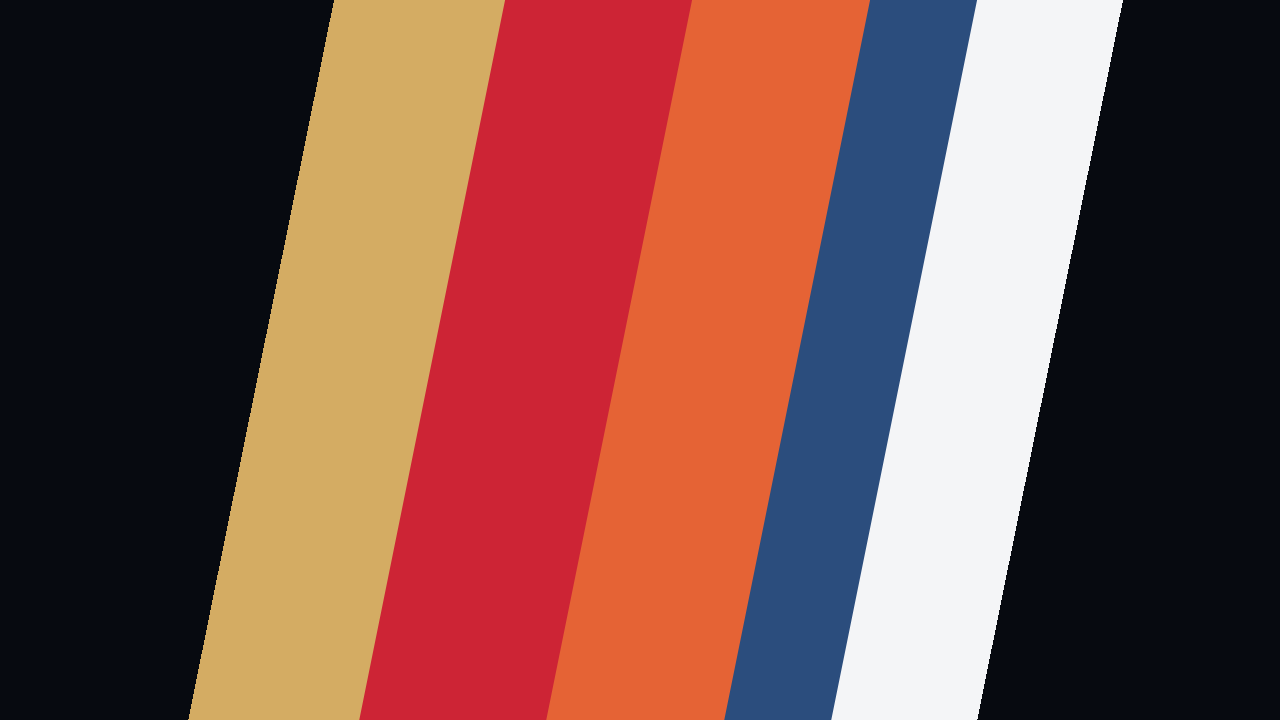
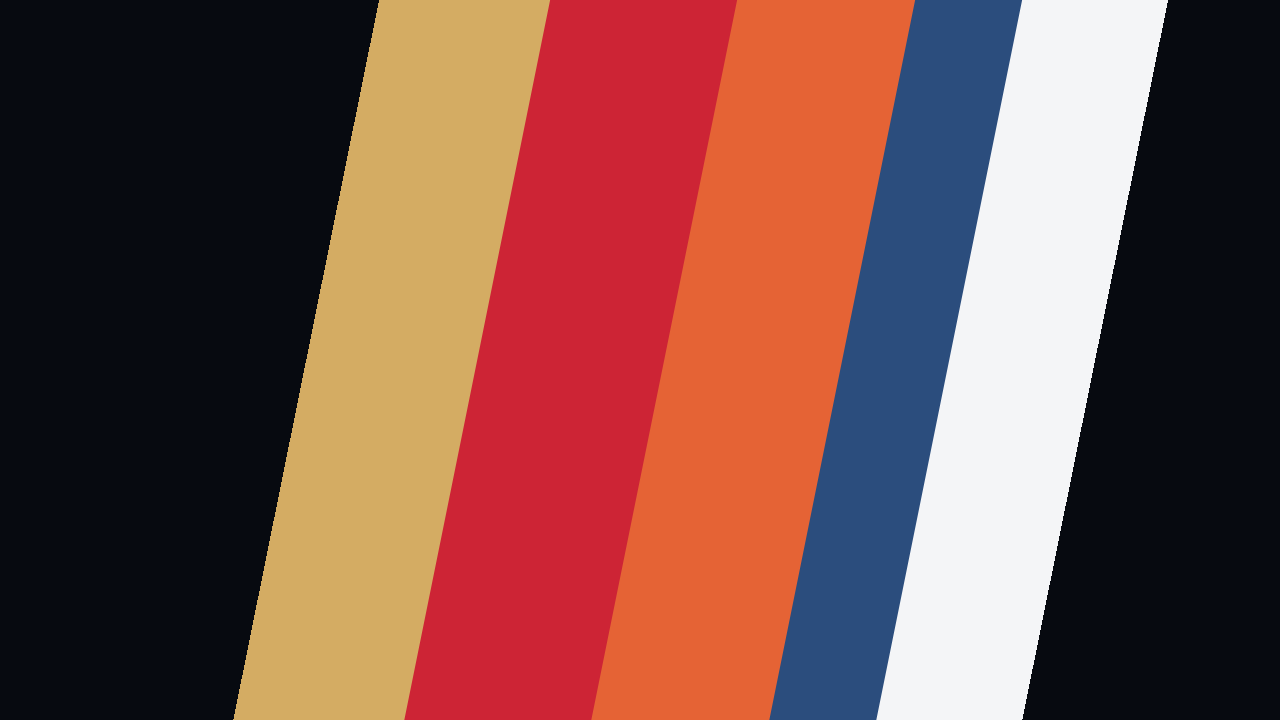
Fix boot swipe, lock design decisions, add session handoff
- boot: store the shear ANGLE rather than skewX(...); the CSS already wraps it,
  so the variable produced skewX(skewX(...)) -> invalid transform -> band static
- boot: retime to 1.7s and shorten the off-screen run-up (most of the old 1400ms
  was spent approaching from off-frame, so it read as a ~0.6s wipe)
- boot: add ?freeze=<ms>, which pauses the real keyframes; ?still= computes its
  own transform and cannot catch animation bugs
- docs: HANDOFF.md for clean session migration; DESIGN.md boot section updated
- repo: .gitignore, _tools/asar-one.js for reliable app.asar extraction
- preview: regenerate the boot still at the new timing

diff --git a/preview/boot.html b/preview/boot.html
@@ -61,7 +61,7 @@
     background: #070a10;
     display: grid;
     place-items: center;
-    animation: boot-out 420ms ease-out 1400ms forwards;
+    animation: boot-out 420ms ease-out 1700ms forwards;
     pointer-events: none;
     overflow: hidden;
   }
@@ -88,7 +88,7 @@
     /* fallbacks matter: these are set from script, and an unset var would make
        the transform invalid and flash the band at the left edge */
     transform: translateX(var(--from, -180vw)) skewX(var(--skew, -14deg));
-    animation: sweep 1400ms cubic-bezier(0.4, 0, 0.2, 1) 80ms both;
+    animation: sweep 1700ms cubic-bezier(0.4, 0, 0.2, 1) 80ms both;
     will-change: transform;
   }
 
@@ -193,12 +193,35 @@
       bars[b].style.width = (shares[b] * bandVw).toFixed(3) + "vw";
     }
 
-    // Travel far enough that the sheared band is fully off both edges.
-    var from = -(bandVw + 26);
-    var to = 112 + 26;
+    // Travel budget, in vw. The band only *reads* while it is on screen, so the
+    // off-screen run-up is kept short (60% of the band, plus 18vw of shear
+    // slack) instead of a full band width plus margin. Earlier numbers put
+    // ~40% of the 1400ms in the off-screen run-up, so a 1.4s animation looked
+    // like a 0.6s wipe.
+    var from = -(bandVw * 0.6 + 18);
+    var to = 118; // 100vw + shear slack, so the trailing edge clears the frame
     wipe.style.setProperty("--from", from + "vw");
     wipe.style.setProperty("--to", to + "vw");
-    wipe.style.setProperty("--skew", "skewX(" + skew.toFixed(2) + "deg)");
+    // Store the ANGLE, not the function. The CSS already wraps this in skewX(),
+    // so writing "skewX(…)" here yielded skewX(skewX(…)) — an invalid transform
+    // that dropped to `none` and left the band static at left:0.
+    wipe.style.setProperty("--skew", skew.toFixed(2) + "deg");
+
+    /* --- freeze: pause the REAL animations at time T -----------------------
+       ?still= computes frames in script, which is why it never caught the
+       skewX(skewX()) bug — it replaces the code under test. ?freeze= only
+       offsets animation-delay and pauses, so the shipped keyframes are what
+       gets rendered. Use this one to verify motion. */
+    var freeze = params.get("freeze");
+    if (freeze !== null) {
+      var at = Number(freeze);
+      var style = document.createElement("style");
+      style.textContent =
+        ".wipe{animation-delay:" + (-at) + "ms!important;animation-play-state:paused!important}" +
+        ".boot__mark{animation-delay:" + (350 - at) + "ms!important;animation-play-state:paused!important}" +
+        ".boot{animation-delay:" + (1700 - at) + "ms!important;animation-play-state:paused!important}";
+      document.head.appendChild(style);
+    }
 
     /* --- stills ------------------------------------------------------------ */
     var still = params.get("still");
@@ -209,8 +232,8 @@
     var clamp01 = function (v) { return Math.min(1, Math.max(0, v)); };
     var smooth = function (p) { return p * p * (3 - 2 * p); };
 
-    // 80ms → 1480ms: the band crosses (1.4s — long enough to read the colours).
-    var p = clamp01((t - 80) / 1400);
+    // 80ms → 1780ms: the band crosses.
+    var p = clamp01((t - 80) / 1700);
     var x = from + (to - from) * smooth(p);
     wipe.style.transform = "translateX(" + x.toFixed(2) + "vw) skewX(" + skew.toFixed(2) + "deg)";
 
@@ -220,8 +243,8 @@
     mark.style.opacity = m.toFixed(3);
     mark.style.transform = "translateY(" + (4 * (1 - m)).toFixed(2) + "px)";
 
-    // 1400ms → 1820ms: the plate.
-    var f = clamp01((t - 1400) / 420);
+    // 1700ms → 2120ms: the plate.
+    var f = clamp01((t - 1700) / 420);
     var boot = document.querySelector(".boot");
     boot.style.opacity = (1 - f).toFixed(3);
     if (f >= 1) boot.style.visibility = "hidden";

diff --git a/_tools/asar-one.js b/_tools/asar-one.js
@@ -1,0 +1,37 @@
+// Pull one file out of app.asar by its archive path, and print its size.
+//
+// Naive header walkers return 0 bytes for some entries in this archive, so this
+// one computes the payload base explicitly: the header is a padded pickle, the
+// JSON length sits at uint32@12, and file data starts at 8 + uint32@4.
+//
+// usage: node _tools/asar-one.js <app.asar> <archive/path.js> <out file>
+'use strict';
+const fs = require('fs');
+
+const [, , asarPath, inner, outPath] = process.argv;
+const fd = fs.openSync(asarPath, 'r');
+const head = Buffer.alloc(16);
+fs.readSync(fd, head, 0, 16, 0);
+const jsonLen = head.readUInt32LE(12);
+const jsonBuf = Buffer.alloc(jsonLen);
+fs.readSync(fd, jsonBuf, 0, jsonLen, 16);
+const index = JSON.parse(jsonBuf.toString('utf8'));
+const base = 8 + head.readUInt32LE(4);
+
+let node = index;
+for (const part of inner.split('/')) {
+  if (!node || !node.files || !node.files[part]) {
+    console.error('not found: ' + inner);
+    process.exit(1);
+  }
+  node = node.files[part];
+}
+if (node.files) {
+  console.error('that path is a directory');
+  process.exit(1);
+}
+
+const buf = Buffer.alloc(node.size);
+fs.readSync(fd, buf, 0, node.size, base + Number(node.offset));
+fs.writeFileSync(outPath, buf);
+console.log(`wrote ${outPath} (${node.size} bytes)`);

diff --git a/docs/HANDOFF.md b/docs/HANDOFF.md
@@ -1,0 +1,184 @@
+# Handoff — read this first
+
+Everything a fresh session needs to continue this project without re-deriving it.
+Written at the end of the session that produced the design and the preview.
+
+**Status:** design locked, preview complete and verified with real renders. **Not
+installed** — nothing has been added to DSH yet. The next real task is packaging
+the theme as a profile bundle (`§8`).
+
+---
+
+## 1. What this is
+
+A theme for **DSH** (DeepSeek Harness) built on **Bethesda's Starfield** system UI —
+not a literal star field, and no longer the Constellation *faction* (the result is
+closer to the game's map UI, so the package name may become plain `starfield`).
+
+Two surfaces, taken from two different in-game screens:
+
+| Surface | Reference | Character |
+| --- | --- | --- |
+| **Dark — star map** | the system/star map | near-black deep blue, crisp dots, cyan routes, plus-mark grid, light stencil plates |
+| **Light — dataslate** | the in-game note | matte gray-lavender paper, slate ink, mid-gray plates, dark primary block |
+
+## 2. Locked decisions — do not relitigate without a reason
+
+- **The two surfaces map onto DSH's own light/dark slots** rather than forcing one
+  palette. The theme follows the app's Appearance setting.
+- **Brand art is the real thing**: 17 per-glyph SVG paths + the fish path, extracted
+  from the shipped bundle. The whale keeps DeepSeek blue `#4D6BFE`; the wordmark
+  stays monochrome. Per-word colouring was studied and rejected — it splits
+  `deepseek` mid-syllable and destroys the lighter small-caps `HARNESS`.
+  See [`preview/wordmark-study.png`](../preview/wordmark-study.png).
+- **Livery stripe** (`#D4AC63 #CD2435 #E56335 #2B4D7D #F4F5F7`) is *identity, not
+  state*. It appears once, as a 4-bar flag on the brand plate's leading edge.
+  Chalk is dropped there because the dark-mode plate is itself light. Orange and
+  red already mean *metric* and *alert*, so the livery never touches data.
+- **Boot is a 1.7s livery sweep**, CSS-only, widths allocated per load with bounds
+  `[0.12, 0.31]` after normalisation. The band passes **in front of** the whale.
+- **The chart never crosses the reading column** — enforced by a segment/rect
+  intersection, covered by a headless test.
+- **Typography**: Bahnschrift at `font-stretch: 88%` for chrome and labels, the
+  system UI face for prose, Cascadia Mono for data.
+
+## 3. File map
+
+| Path | Purpose |
+| --- | --- |
+| [`preview/index.html`](../preview/index.html) | The preview shell; `?mode=light` renders the dataslate |
+| [`preview/tokens.css`](../preview/tokens.css) | **Palette source of truth** — dark `:root`, light `[data-sf-mode="light"]` |
+| [`preview/preview.css`](../preview/preview.css) | Component vocabulary: `.sf-plate`, `.sf-rows`, `.sf-key`, `.sf-engage`, `.sf-meter` |
+| [`preview/starfield.js`](../preview/starfield.js) | Field engine: dots, plus-grid, waypoint rings, cyan routes, `avoid` rects |
+| [`preview/boot.html`](../preview/boot.html) | Boot sweep; `?seed=` layout, `?freeze=` keyframe pause, `?still=` computed frame |
+| [`preview/brand-paths.js`](../preview/brand-paths.js) | Real brand geometry (generated) |
+| [`preview/wordmark.html`](../preview/wordmark.html) | Wordmark colour study |
+| [`docs/DESIGN.md`](DESIGN.md) | Palette tables, components, livery, boot, field rules, gaps |
+| [`_tools/field.test.js`](../_tools/field.test.js) | Headless invariant test (no stroke over prose) |
+| [`_tools/asar-one.js`](../_tools/asar-one.js) | Extract a single file from `app.asar` reliably |
+| [`tools/extract-brand-paths.js`](../tools/extract-brand-paths.js) | Regenerates `brand-paths.js` from the primitives bundle |
+| [`tools/mockup.py`](../tools/mockup.py) / [`livery.py`](../tools/livery.py) | Offline palette / livery studies (superseded by real renders) |
+| [`_reference/`](../_reference) | Extracted DSH packages + token inventory (research, see `§7`) |
+
+## 4. DSH internals this project depends on
+
+**A theme is a profile bundle package**, not a stylesheet. Two halves:
+
+- **Host** (`index.js`, CJS) — hooks `webserver/index-inject`, which fires on *every*
+  index response. That is how the pre-plugin boot screen gets styled, and it is the
+  seam to use for per-load randomisation (emit literal values, no client JS).
+- **Client** (`client.js`) — registers through `window.__ModuleLoader__.load({ id,
+  factory })`; `apply(ctx)` overrides tokens via
+  `ctx.get('theme').overrideTokens(id, { '--dsw-alias-…': { light, dark } })` and
+  injects CSS.
+
+Wiring: `package.json` → `dsh.bundle.patch` + `dsh.client.inject`/`platform`, the
+package goes in `$DSH_HOME/profiles/desktop/node_modules/`, and its name is added to
+`dsh.profile.bundles` in the profile `package.json`. **A new bundle only loads after
+the desktop app restarts.**
+
+**Scale of the token job:** 403 `--dsw-*` tokens, **107 `--dsw-alias-*`** — inventory
+in [`_reference/tokens.txt`](../_reference/tokens.txt). Coverage must be *complete*:
+DSH's light tokens resolve many surfaces to pure white, so a partial palette leaves
+light text on white cards.
+
+**Brand is slot-based:** `sidebar.brand.mark` and `sidebar.brand.name` are separate
+slots — a theme can occupy the mark alone (whale in blue) and leave the wordmark to
+the shell. That split is why the V4 treatment is the cheap one.
+
+**Currently installed and active:** `dsh-theme-mls-desktop` (the Marathon theme) owns
+the UI today, and its shell patch has modified `app.asar` (transparent window, hidden
+captions, opens maximised). Pristine backup:
+`<install>/resources/app.asar.dsh-theme-marathon.bak`. Wiring this theme means
+removing the MLS entry from `dsh.profile.bundles`.
+
+## 5. Environment traps (this cost the most time)
+
+1. **The workspace root must grant `WRITE_OWNER`.** DSH's sandbox stamps a Low
+   integrity label via `LABEL_SECURITY_INFORMATION`, which needs it. Inherited
+   `Modify` is not enough and every command dies with
+   `SetNamedSecurityInfoW failed (Win32 5)`. Repair:
+   `icacls <folder> /grant '<user>:(OI)(CI)F'`.
+2. **Elevated writes are undeletable from the sandbox.** Files created by an
+   escalated command carry Medium integrity; the Low-integrity shell then gets
+   "access denied" on delete. Clean those up with an escalated command too.
+3. **Headless Chrome fails under the sandbox** (crashpad `OpenProcess: Access is
+   denied`). Edge works:
+   `msedge --headless=new --disable-gpu --disable-crashpad --disable-breakpad
+   --allow-file-access-from-files --user-data-dir=<tmp> --virtual-time-budget=2500
+   --window-size=1600,1000 --screenshot=<png> "file:///…"`. Launching a browser
+   needs `danger-full-access`.
+4. **Virtual-time screenshots do not reliably advance CSS animations**, so frozen
+   frames lie. Test motion with `?freeze=<ms>` (offset `animation-delay` + paused),
+   which renders the real keyframes. `?still=` computes its own transform and can
+   therefore never catch a bug in the animation — it already hid one.
+5. **`node -e` with quotes breaks in PowerShell.** Write a `.js` file and run it.
+6. **`app.asar` extraction**: the header is a padded pickle — payload starts at
+   `8 + uint32@4`, JSON length is `uint32@12`. Naive header walkers silently return
+   0 bytes for some entries; use [`_tools/asar-one.js`](../_tools/asar-one.js).
+7. **`--skew` / `--from` style variables must hold values, not functions**: CSS
+   already wraps them (`skewX(var(--skew))`), so storing `skewX(…)` produced
+   `skewX(skewX(…))` → invalid → `transform: none` → a static band.
+
+## 6. Verification recipes
+
+```powershell
+# invariant: no stroke crosses the reading column
+node _tools/field.test.js
+
+# real screenshots of both surfaces (needs danger-full-access for the browser)
+msedge --headless=new --disable-gpu --disable-crashpad --disable-breakpad `
+  --allow-file-access-from-files --user-data-dir=$env:TEMP\sf `
+  --virtual-time-budget=3500 --window-size=1600,1000 `
+  --screenshot=$env:TEMP\shot.png "file:///D:/!Sparetime/dsh-theme-starfield/preview/index.html?mode=dark"
+
+# boot keyframes at a given instant
+"…preview/boot.html?freeze=900&seed=31"
+
+# palette studies without a browser
+python tools/mockup.py ; python tools/livery.py
+```
+
+## 7. Repo hygiene / open questions
+
+- **`_reference/` is tracked** (10 files): extracted DSH packages including
+  DeepSeek's own LICENSE, READMEs and brand artwork. Fine for a private repo;
+  untrack before publishing: `git rm -r --cached _reference`.
+- **`preview/brand-paths.js` is DeepSeek artwork** copied from the shipped bundle.
+  Shipping it inside a published theme is a redistribution question — the clean
+  route is to occupy the brand slots with artwork the deployment owns.
+- A `.gitignore` was added late (`__pycache__`, `preview/_*.png`).
+- The name may become `starfield` rather than `dsh-theme-starfield`.
+
+## 8. Next steps, in order
+
+1. **Package skeleton** — `package.json` (bundle patch + client contract),
+   `cordis.patch.yml`, `index.js` host half, `client.js` client half.
+2. **Host half**: inject the boot CSS *and* the five strip widths + shear as literal
+   values per response (this is what keeps the boot JS-free and immune to `§5.7`).
+   Also inject the pre-plugin palette so the first paint is already dark.
+3. **Token mapping** — all 107 aliases, both slots, from `tokens.txt`. Verify no
+   white surface survives in light mode.
+4. **Client half** — `overrideTokens` for the palette, the field engine with `avoid`
+   rects derived from **DSH's real transcript element** (not the preview's column),
+   and the `.sf-*` component CSS.
+5. **Install** — package into `$DSH_HOME/profiles/desktop/node_modules/`, add to
+   `dsh.profile.bundles`, remove `dsh-theme-mls-desktop`, restart the app.
+6. **In-situ verification** — screenshot the running app on both DSH themes; check
+   the boot sweep against a real cold start; add a readiness marker on `<html>` so
+   the sweep cannot outlive the boot interval.
+
+## 9. Migrating to a clean session
+
+This session ran with its workspace path junctioned to this repo
+(`D:\!Sparetime\dsh_starfield_constellation_theme` → `D:\!Sparetime\dsh-theme-starfield`)
+because a running session cannot be re-rooted. To migrate cleanly:
+
+1. In this repo: commit the working tree (see `git status`).
+2. Remove the junction: `rmdir 'D:\!Sparetime\dsh_starfield_constellation_theme'`
+   — this deletes the link, never the repo.
+3. In the app: **Add workspace** → `D:\!Sparetime\dsh-theme-starfield`.
+4. Start the new session and read this file first.
+
+Note: this repo's folder was granted `FullControl` for the current user so the
+sandbox could stamp its integrity label — that is a normal owner state, not damage.

diff --git a/docs/DESIGN.md b/docs/DESIGN.md
@@ -147,10 +147,21 @@ livery is equipment marking, the whale is the logo.
 [`preview/boot.html`](../preview/boot.html) — one sheared band of all five livery
 colours crosses the screen once and the boot plate fades out behind it.
 
-- **Timeline** — band 80 → 1480ms, mark 350 → 800ms, plate 1400 → 1820ms. ~1.8s
-  total, and nothing is left on screen afterwards. The first cut ran the crossing
-  in 680ms, which was over before the colours could be read; 1.4s is the slowest
-  that still feels like a wipe rather than a loading screen.
+- **Timeline** — band 80 → 1780ms, mark 350 → 800ms, plate 1700 → 2120ms. ~2.1s
+  total, and nothing is left on screen afterwards.
+- **Animation duration is not perceived duration.** The band only reads while it
+  is on screen, so the off-screen run-up is a cost paid on every play. The first
+  cut ran 1400ms but spent ~40% of it approaching from off-frame, which looked
+  like a 0.6s wipe; travel now starts at 60% of a band width plus 18vw of shear
+  slack, and the duration is 1.7s.
+- **Two bugs worth remembering.** (1) `--skew` held `skewX(…)` while the CSS
+  wrapped it again, producing `skewX(skewX(…))` — an invalid transform that
+  silently dropped to `none`, so the band sat still at `left: 0` and only faded.
+  Variables must hold values, not functions the CSS already applies. (2) The
+  `?still=` capture mode builds its own transform in script, so it cannot catch
+  that class of bug: it replaces the code under test. `?freeze=<ms>` pauses the
+  real keyframes by offsetting `animation-delay` instead, and is the mode to
+  verify motion with.
 - **Strip widths are allocated, not equal.** Each colour draws a weight from
   `[0.70, 1.40]`, the five are normalised to the band, then clamped to
   `[0.12, 0.31]` so no colour collapses or becomes a wall — an equal-fifths band

diff --git a/README.md b/README.md
@@ -6,6 +6,10 @@ plates) and the **dataslate** (light, matte paper, slate ink, printed speck).
 
 > Status: **preview stage.** The visual language, both palettes and the field engine
 > exist and are tested; DSH packaging is the next step — see [Next](#next).
+>
+> **Starting a fresh session?** Read [`docs/HANDOFF.md`](docs/HANDOFF.md) first — it
+> carries the locked decisions, the DSH internals this depends on, the environment
+> traps, and the ordered next steps.
 
 ## Look at it
 
